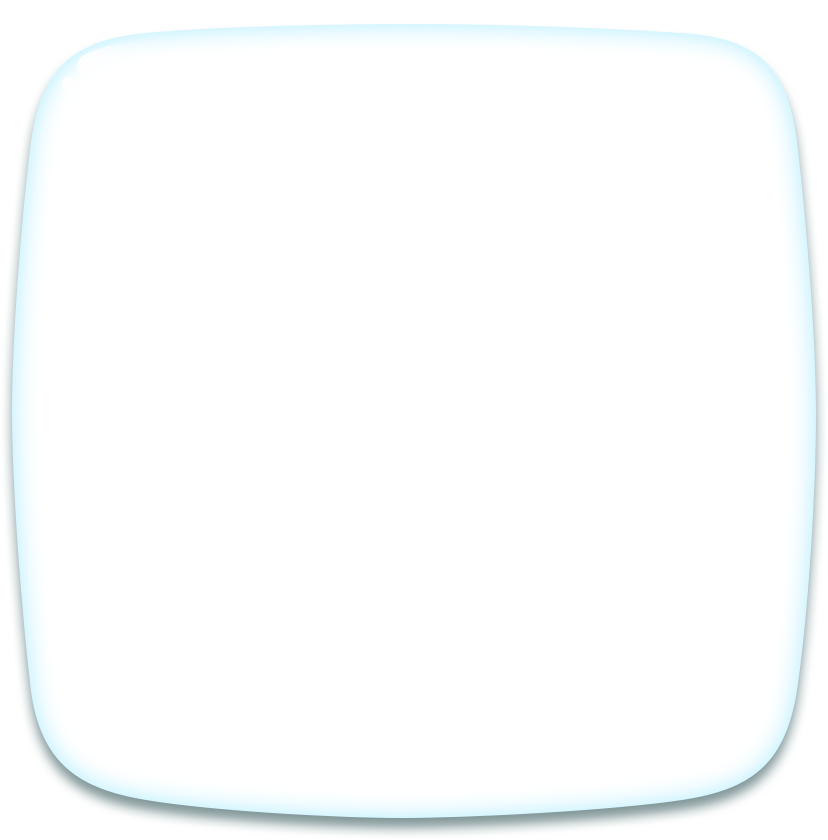
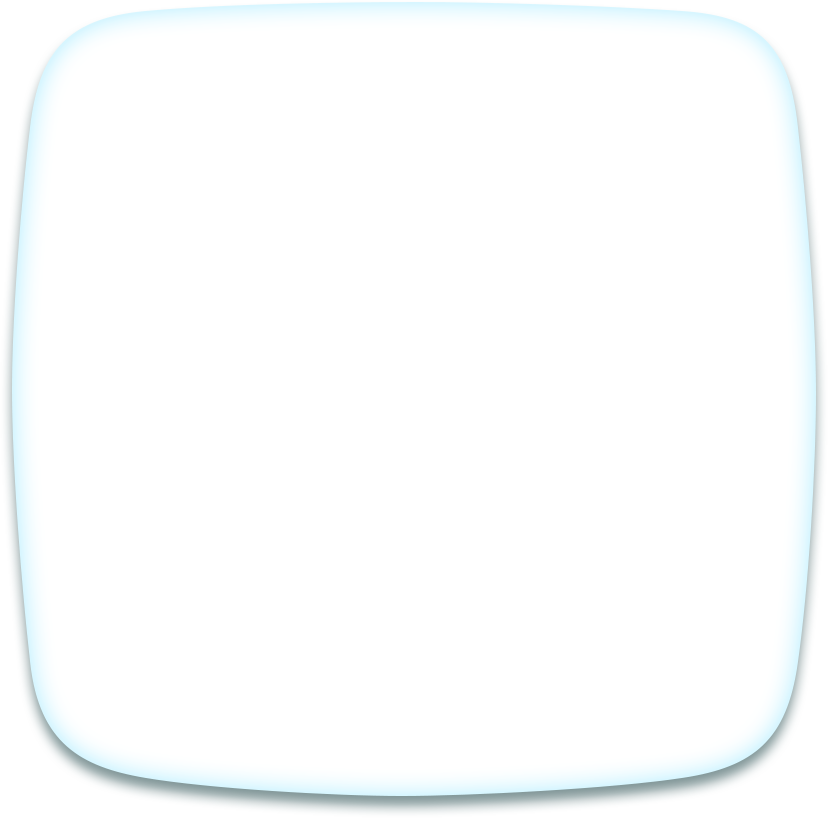
鱼横向排列（改）

Changed region(s): [[0.0302, 0.0, 0.9662, 0.1528]]

diff --git a/app/components/item2.jsx b/app/components/item2.jsx
@@ -109,7 +109,7 @@ module.exports = React.createClass({
 						</li>)}
 					</ul>}
 					{type === 'fish' &&
-					<ul id={'domUl'} style={{width: `${Math.ceil(list.length) * 3.06}rem`}}>
+					<ul id={'domUl'} style={{width: `${Math.ceil((list.length)/4) * 6.12}rem`}}>
 						{list.map((item, i) => <li
 							onClick={this.props.changeCurItem.bind(this, 1, item.fishId)}>
 							<img src={util.getImg(item.gene)}/>

diff --git a/app/components/cattr.css b/app/components/cattr.css
@@ -2,7 +2,7 @@
   width: 100%;
   height: 98%;
   background: url("../images/item_bg_1.png") no-repeat center;
-  background-size: 98% 98%;
+  background-size: 7.25rem 7.13rem;
   position: relative;
 }
 #cattr .fish_content .shelve {

diff --git a/app/components/cattr.less b/app/components/cattr.less
@@ -4,7 +4,7 @@
   width: 100%;
   height: 98%;
   background: url("../images/item_bg_1.png") no-repeat center;
-  background-size: 98% 98%;
+  background-size: 7.25rem 7.13rem;
   position: relative;
   .fish_content {
     .shelve {

diff --git a/app/components/item10.less b/app/components/item10.less
@@ -4,7 +4,7 @@
   width: 100%;
   height: 98%;
   background: url("../images/item_bg_1.png") no-repeat center;
-  background-size: 98% 98%;
+  background-size: 7.25rem 7.13rem;
   position: absolute;
   .msg {
     width: 6.18rem;

diff --git a/app/components/home.css b/app/components/home.css
@@ -133,7 +133,7 @@
   position: absolute;
   top: 3rem;
   width: 7.67rem;
-  height: 7.56rem;
+  height: 7.57rem;
   left: 1.17rem;
   background: url("../images/item_popup.png") no-repeat center;
   background-size: 100% 100%;

diff --git a/app/components/item10.css b/app/components/item10.css
@@ -2,7 +2,7 @@
   width: 100%;
   height: 98%;
   background: url("../images/item_bg_1.png") no-repeat center;
-  background-size: 98% 98%;
+  background-size: 7.25rem 7.13rem;
   position: absolute;
 }
 .item10 .msg {

diff --git a/app/components/home.less b/app/components/home.less
@@ -136,7 +136,7 @@
     position: absolute;
     top: 3rem;
     width: 7.67rem;
-    height: 7.56rem;
+    height: 7.57rem;
     left: 1.17rem;
     .commonBackground("../images/item_popup.png");
     &.popup4{
